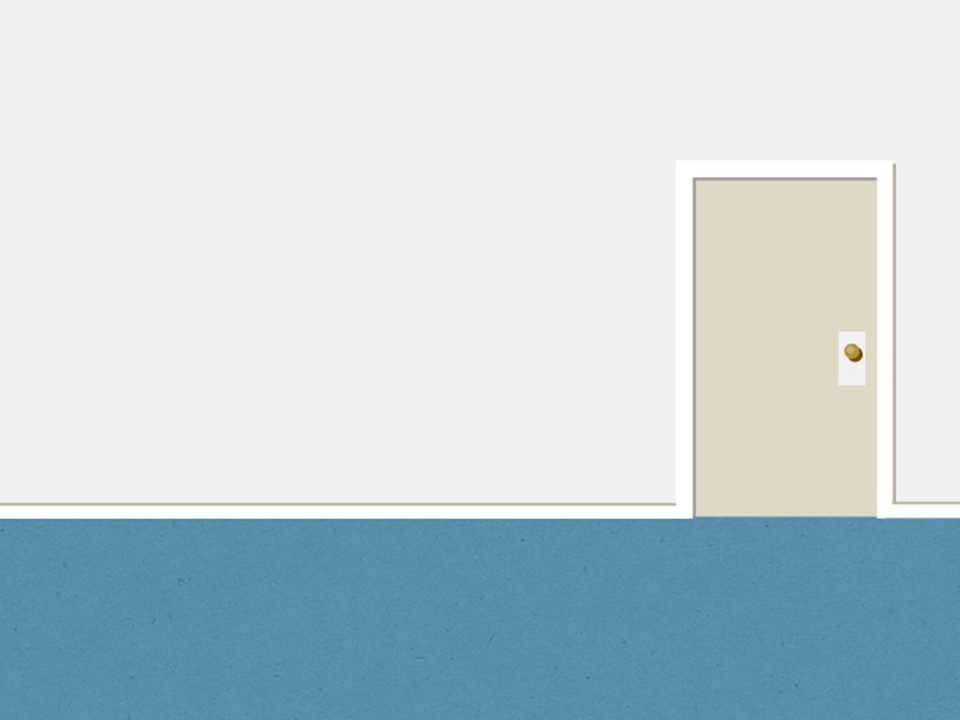
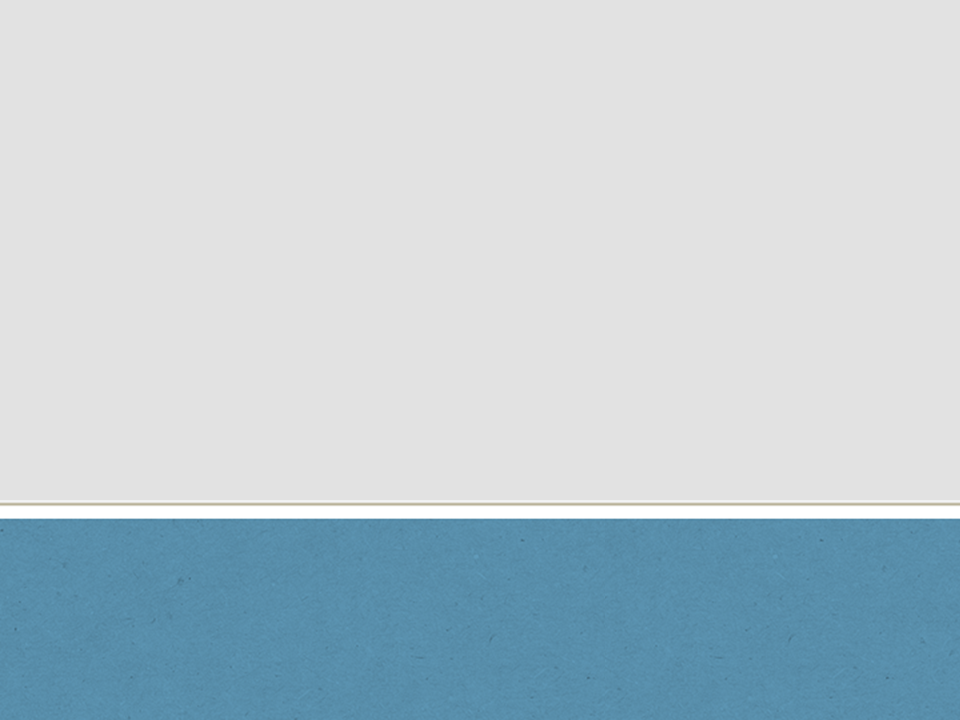
Final 1.1
Changed the background

Changed region(s): [[0.6875, 0.2139, 1.0, 0.7333]]

diff --git a/Game.html b/Game.html
@@ -158,7 +158,7 @@
 				//console.log("in Render");
 				if (bgReady)
 				{
-					ctx.drawImage(bgImage, 0, -150, 1024, 800); // this needs to be changed to a normal picture
+					ctx.drawImage(bgImage, 0, -37, 1024, 700); // this needs to be changed to a normal picture
 				}
 				ctx.drawImage(titleImage, 512 - 150,-20, 300, 150);
 				ctx.drawImage(instructionImage, 725, 50, 256, 256);
@@ -192,7 +192,7 @@
 				
 				for (var cs = 0; cs < clearCount; cs++)
 				{
-					ctx.drawImage(iconClearStack, 705,  625 - ((cs + 1) * 90), 100, 100);
+					ctx.drawImage(iconClearStack, 703,  625 - ((cs + 1) * 60), 100, 100);
 				}
 				
 				
